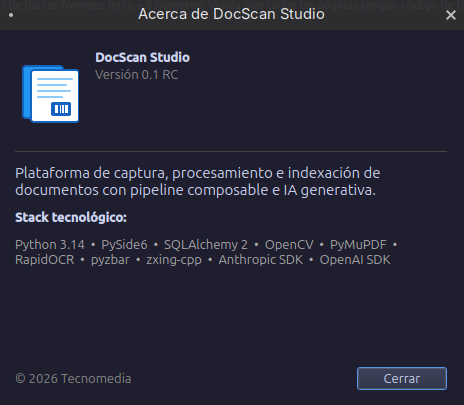
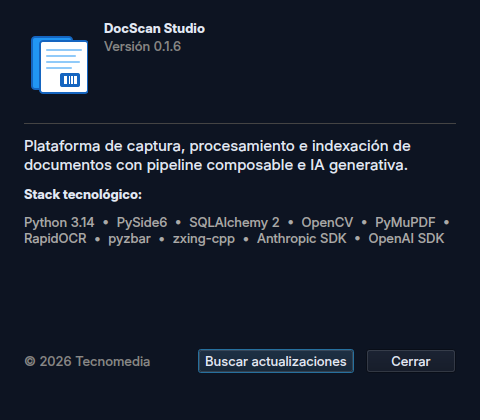
docs: capturas regeneradas con la interfaz nueva
Las 15 de docs/screenshots y docs-web/assets/screenshots, con
tools/ui_snapshots.py. Los lotes de la demo usan la estación PUESTO-01:
antes salía el nombre del equipo en el que se generaban. CHANGELOG y
CLAUDE.md (comando install_desktop_entry) al día.

diff --git a/tools/ui_snapshots.py b/tools/ui_snapshots.py
@@ -27,6 +27,7 @@ from __future__ import annotations
 import argparse
 import json
 import os
+import platform
 import sys
 import tempfile
 import time
@@ -57,6 +58,9 @@ def _isolate(workdir: Path, visible: bool) -> None:
         os.environ["QT_QPA_PLATFORM"] = "offscreen"
     # Sin escáner real: create_scanner() no debe enumerar dispositivos USB.
     sys.modules.setdefault("sane", types.ModuleType("sane"))
+    # Los lotes guardan el nombre del equipo como estación: que no salga el
+    # del equipo real en las capturas públicas.
+    platform.node = lambda: DEMO_STATION
     sys.path.insert(0, str(ROOT))
 
     # QSettings («DocScanStudio») usa el backend nativo: el registro en Windows.
@@ -83,6 +87,7 @@ def _isolate(workdir: Path, visible: bool) -> None:
 
 COMPANY = "Suministros Ejemplo S.L."
 COMPANY_ADDR = "Calle Mayor 1 · 28000 Ciudad Ejemplo"
+DEMO_STATION = "PUESTO-01"  # nombre de equipo neutro para los lotes
 
 
 def _font(size: int, bold: bool = False):

diff --git a/CHANGELOG.md b/CHANGELOG.md
@@ -42,6 +42,14 @@ Ahora el programa se detiene y lo dice, con la misma lógica que FlexibarNET 10
 
 ### 🐛 Corregido
 
+- **Icono de DocScan en Linux con Wayland.** El escritorio ignora el icono que
+  pone la aplicación y lo busca en el `.desktop` cuyo nombre coincide con el
+  identificador de la ventana, que era el del intérprete de Python: salía un icono
+  genérico. La aplicación se declara ahora como `docscan`, el nombre del
+  `.desktop` del AppImage. Para ejecutar desde el código,
+  `tools/install_desktop_entry.py` instala (o quita, con `--uninstall`) esa
+  entrada en `~/.local/share/applications`.
+
 - **Arrastrar un paso del pipeline ya cambia su orden.** La lista lo movía, pero el
   orden guardado seguía siendo el anterior: el cambio se perdía al guardar.
 - **Las imágenes del tema ya no dependen del directorio de trabajo.** Las flechas de
@@ -158,6 +166,12 @@ Ahora el programa se detiene y lo dice, con la misma lógica que FlexibarNET 10
   Flexibar. Antes el desplegable era un cuadrado con borde que parecía una casilla.
 - **Las casillas marcadas llevan tic.** Antes eran un cuadrado relleno sin marca.
   También lo llevan las de la lista «Pestañas del Workbench».
+- **Los desplegables vuelven a tener flecha.** El estilo del tema quitaba la nativa
+  sin poner otra, y parecían campos de texto. El de idioma del launcher es un poco
+  más ancho para que quepan el código y la flecha.
+- **La versión se ve en el título del launcher**: en la barra de la ventana
+  («DocScan Studio v0.1.6», como el «FlexibarNET v1.30» de Flexibar) y junto al
+  encabezado.
 - **Contadores del lote en la barra de estado** (páginas, con barcode, separadores y
   a revisión), como el «Procesado 5/5» de Flexibar. Antes ocupaban el panel derecho.
 - **Al abrir una página a revisión, la barra de estado dice por qué** y cuántos
@@ -193,6 +207,9 @@ Ahora el programa se detiene y lo dice, con la misma lógica que FlexibarNET 10
 
 - La tabla de atajos (`docs-web/reference/shortcuts.md`) se rehízo contra el código:
   decía `Ctrl+S`, `R` y `M`, que no existen (son `F5`, `Ctrl+R` y `Ctrl+M`).
+- **Capturas regeneradas** con la interfaz nueva: las 15 de `docs/screenshots/` y
+  `docs-web/assets/screenshots/`. Los lotes de la demo usan una estación neutra
+  (`PUESTO-01`) en lugar del nombre del equipo en el que se generan.
 - Las aplicaciones de demostración de `tools/ui_snapshots.py` tienen ahora configuraciones
   distintas, para que la captura del launcher enseñe iconos y etiquetas variados.
 - **`tools/ui_snapshots.py`** regenera con un comando las 15 capturas de la

diff --git a/CLAUDE.md b/CLAUDE.md
@@ -61,6 +61,10 @@ QT_QPA_PLATFORM=offscreen .venv/bin/python -m pytest tests/test_foo.py::TestClas
 .venv/bin/python tools/ui_snapshots.py [--theme light] [--only NAME ...] [--out DIR]
 .venv/bin/python tools/ui_snapshots.py --portfolio ../portfolio/public/docscan-studio.webp
 
+# Linux/Wayland: icon in the dock when running from source (writes
+# ~/.local/share/applications/docscan.desktop; --uninstall removes it)
+.venv/bin/python tools/install_desktop_entry.py
+
 # Lint
 .venv/bin/ruff check .
 .venv/bin/ruff format app/
